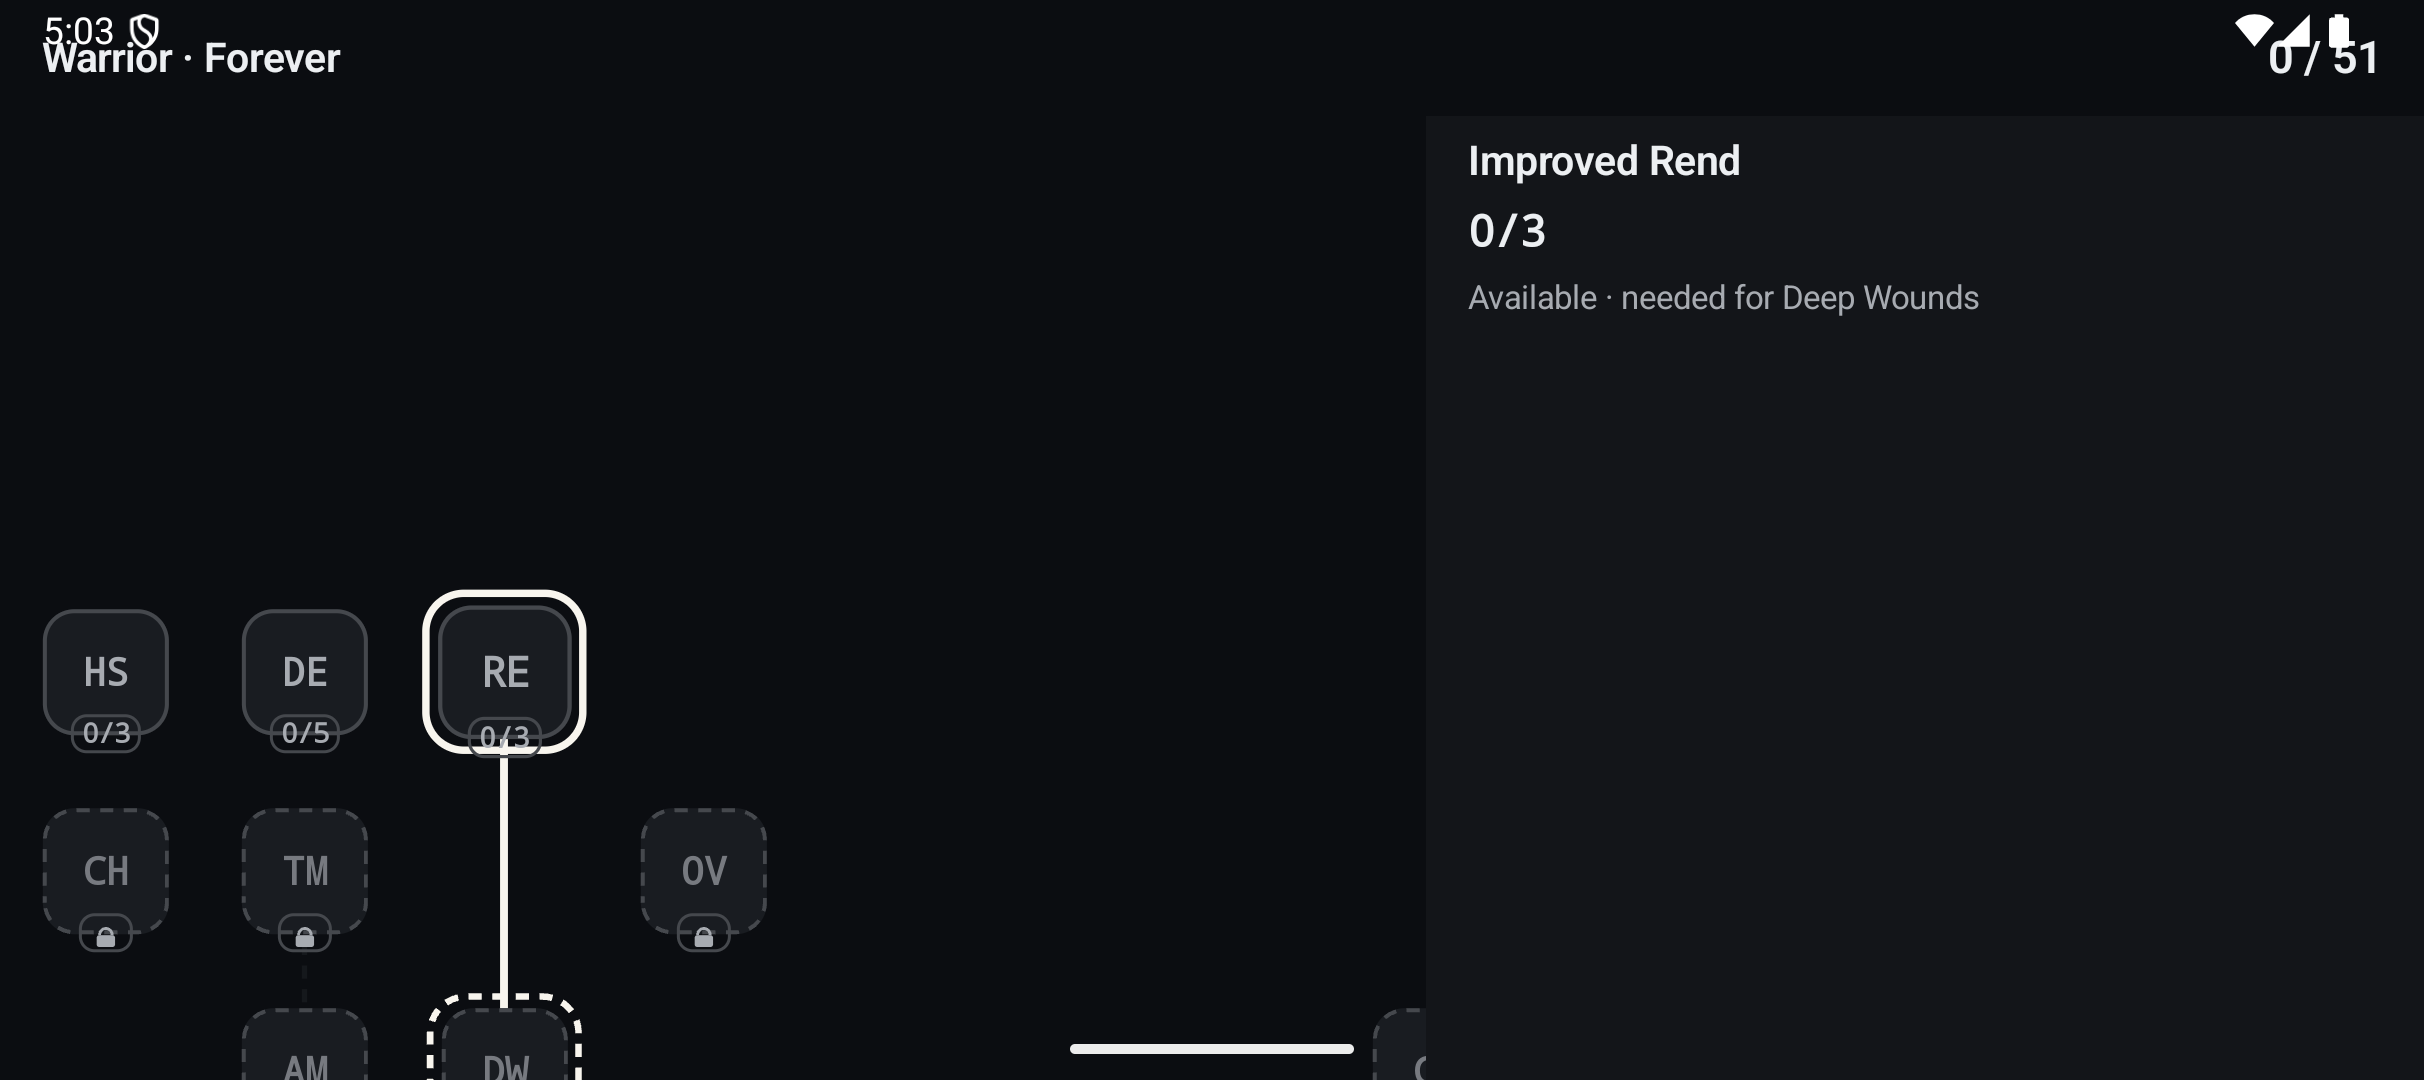
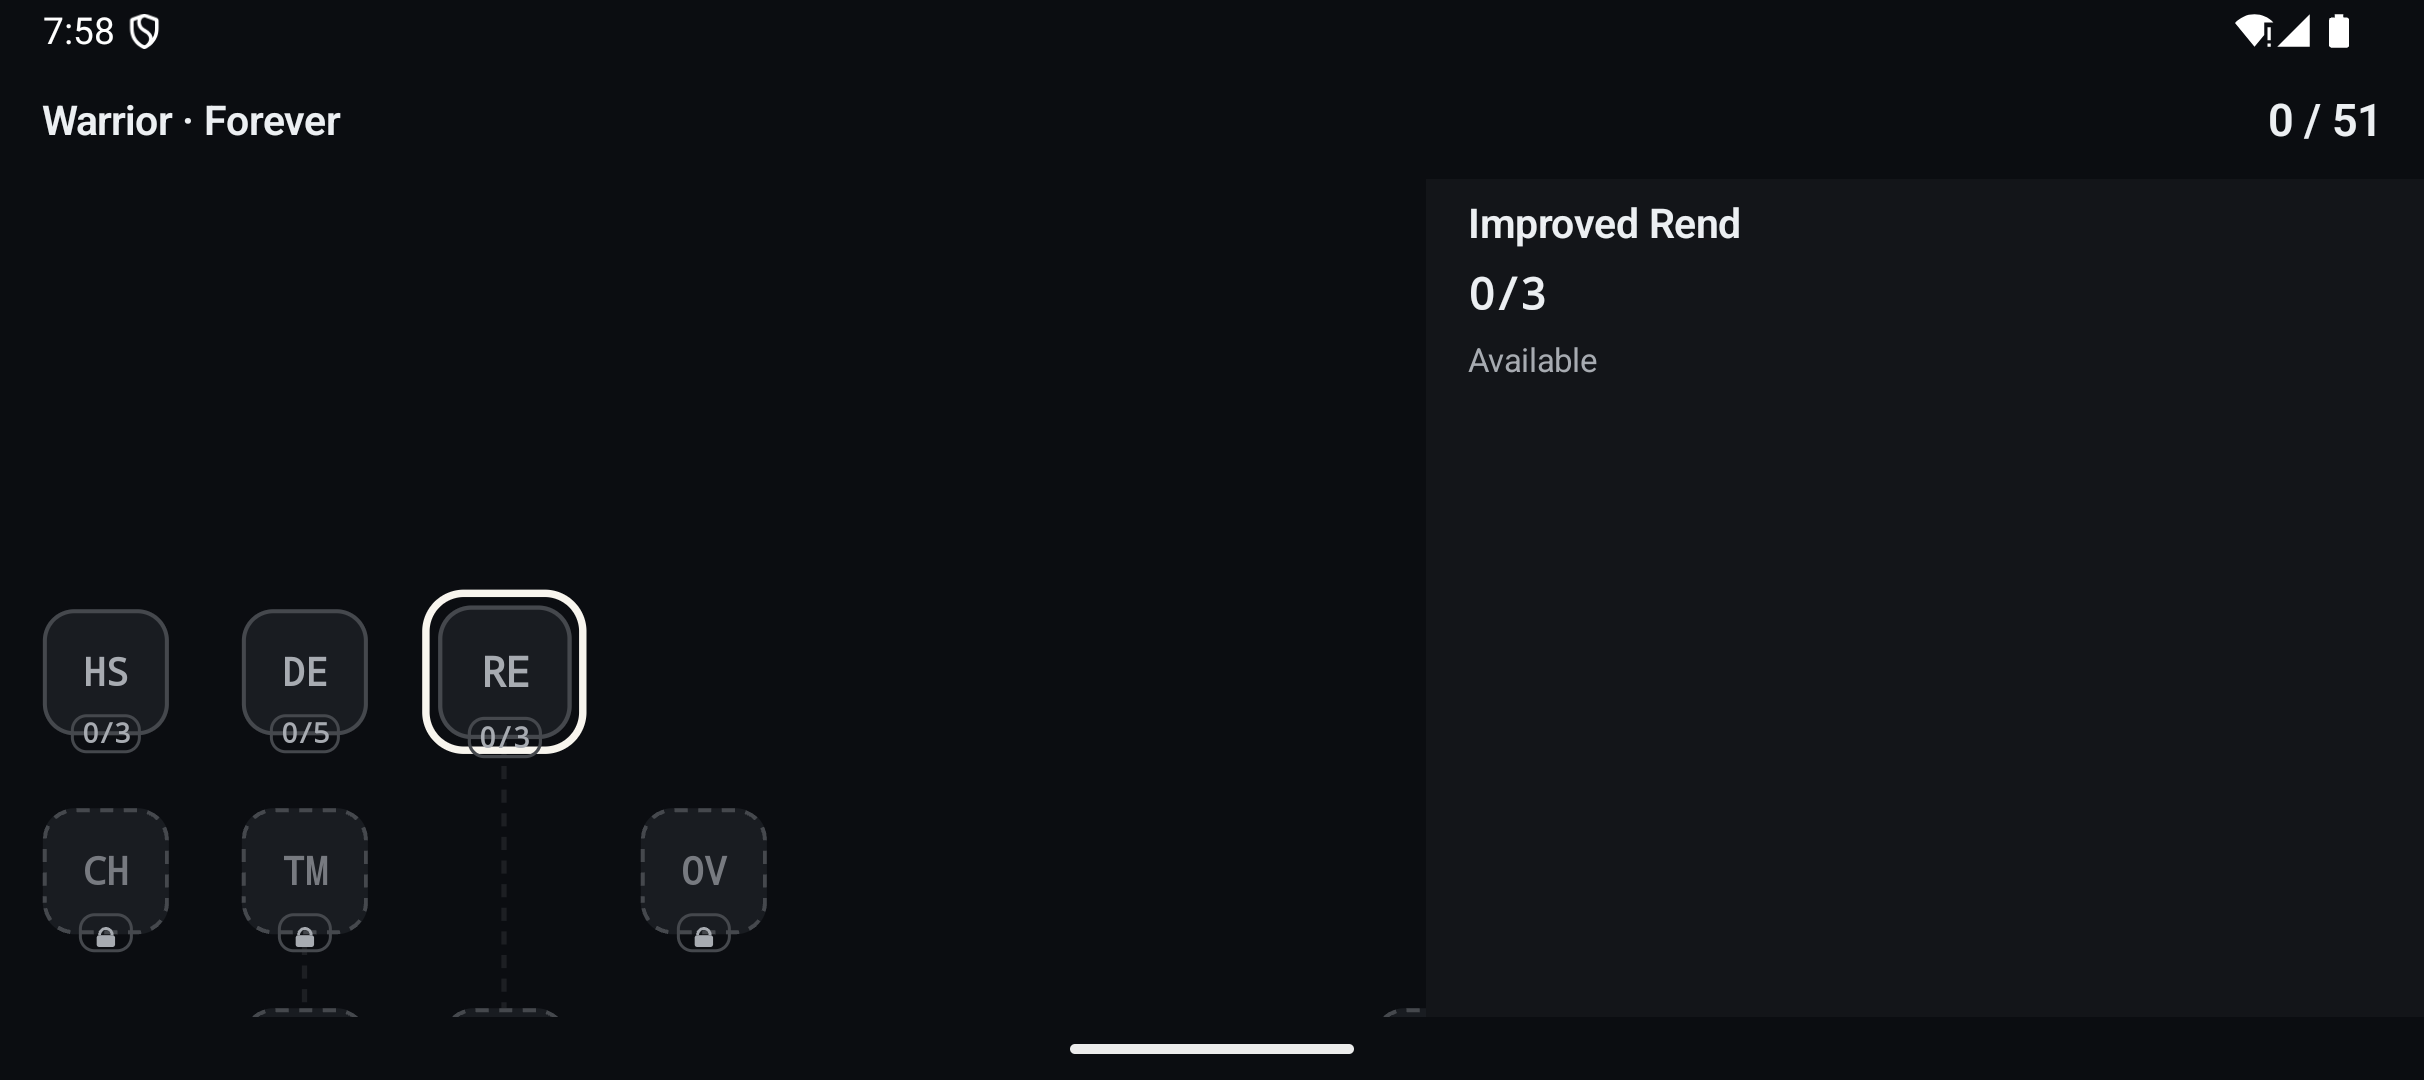
test(tree-ui): regress canvas clipping and expanded focus geometry
Pixel-level clipping test: after a far up/right pan against the real
Warrior canvas, the header and side-panel bands keep their exact paint
(no escaped node/connector pixels). Inspector tests through an
injectable viewport state: expanding over a node above the real 448 dp
sheet leaves the viewport untouched; expanding over a covered node
pans exactly the minimum reveal (scale kept, only the covered axis
moves, transform finite); collapsing never moves the canvas. Pure
panToReveal unit tests pin the minimal-delta and degenerate-region
behaviour. Screenshots refreshed where rendering changed: real
Android emulator (idle/selected/expanded/landscape/locked, tablet
empty+selected) and iOS simulator (idle/selected/locked) now show
dark background through the system-safe regions with content safely
inset; desktop references regenerated (expanded sheet at 448 dp).

diff --git a/mobile/composeApp/src/desktopTest/kotlin/io/github/alexeykravtsov95/talentforge/ui/tree/TalentTreeCanvasClippingTest.kt b/mobile/composeApp/src/desktopTest/kotlin/io/github/alexeykravtsov95/talentforge/ui/tree/TalentTreeCanvasClippingTest.kt
@@ -1,0 +1,142 @@
+package io.github.alexeykravtsov95.talentforge.ui.tree
+
+import androidx.compose.foundation.background
+import androidx.compose.foundation.layout.Box
+import androidx.compose.foundation.layout.Column
+import androidx.compose.foundation.layout.Row
+import androidx.compose.foundation.layout.fillMaxHeight
+import androidx.compose.foundation.layout.fillMaxSize
+import androidx.compose.foundation.layout.fillMaxWidth
+import androidx.compose.foundation.layout.height
+import androidx.compose.foundation.layout.size
+import androidx.compose.foundation.layout.width
+import androidx.compose.runtime.CompositionLocalProvider
+import androidx.compose.ui.Modifier
+import androidx.compose.ui.geometry.Offset
+import androidx.compose.ui.graphics.Color
+import androidx.compose.ui.graphics.toAwtImage
+import androidx.compose.ui.graphics.toArgb
+import androidx.compose.ui.platform.LocalDensity
+import androidx.compose.ui.test.captureToImage
+import androidx.compose.ui.test.junit4.createComposeRule
+import androidx.compose.ui.test.onRoot
+import androidx.compose.ui.unit.Density
+import androidx.compose.ui.unit.dp
+import io.github.alexeykravtsov95.talentforge.ui.theme.TalentForgeTheme
+import kotlin.test.BeforeTest
+import kotlin.test.Test
+import kotlin.test.assertTrue
+import kotlinx.coroutines.runBlocking
+import org.junit.Rule
+
+/**
+ * M4.2 review regression: the Talent Tree canvas is a real viewport — after a
+ * far pan, nothing it draws (connectors, the transformed node layer,
+ * selection rings, pulses, rank chips) may escape its own bounds into the
+ * header above or a neighbouring side panel.
+ *
+ * Pixel-based on purpose: clipping is a rendering property, invisible to the
+ * semantics tree. The header and panel bands are painted pure distinct
+ * colours; any escaped canvas pixel would change them.
+ */
+class TalentTreeCanvasClippingTest {
+
+    @get:Rule
+    val composeRule = createComposeRule()
+
+    private lateinit var model: TalentTreeUiModel
+    private lateinit var presentation: TalentTreePresentation
+    private lateinit var viewportState: TalentTreeViewportState
+
+    private val headerColor = Color(0xFF001133)
+    private val panelColor = Color(0xFF003311)
+    private val panelWidthDp = 100
+    private val headerHeightDp = 44
+
+    private companion object {
+        const val WIDTH = 360
+        const val HEIGHT = 760
+    }
+
+    @BeforeTest
+    fun loadRealWarriorModel() {
+        val ready = runBlocking { loadBaselineWarriorTreeState() } as TalentTreeUiState.Ready
+        model = ready.model
+        presentation = buildTalentTreePresentation(ready.engine, ready.buildState)
+        viewportState = TalentTreeViewportState(initial = null)
+    }
+
+    @Test
+    fun farPanKeepsEveryCanvasPixelInsideTheCanvasBounds() {
+        composeRule.setContent {
+            TalentForgeTheme {
+                CompositionLocalProvider(LocalDensity provides Density(1f)) {
+                    Box(Modifier.size(WIDTH.dp, HEIGHT.dp)) {
+                        Column(Modifier.fillMaxSize()) {
+                            Box(
+                                Modifier
+                                    .fillMaxWidth()
+                                    .height(headerHeightDp.dp)
+                                    .background(headerColor),
+                            )
+                            Row(Modifier.fillMaxSize()) {
+                                TalentTreeCanvas(
+                                    model = model,
+                                    presentation = presentation,
+                                    viewportState = viewportState,
+                                    layoutClass = TalentTreeLayoutClass.PORTRAIT,
+                                    selectedNodeId = null,
+                                    showGuide = null,
+                                    guideToken = 0,
+                                    onNodeSelected = {},
+                                    onSelectionCleared = {},
+                                    modifier = Modifier.weight(1f),
+                                )
+                                Box(
+                                    Modifier
+                                        .width(panelWidthDp.dp)
+                                        .fillMaxHeight()
+                                        .background(panelColor),
+                                )
+                            }
+                        }
+                    }
+                }
+            }
+        }
+        composeRule.waitForIdle()
+
+        // Pan far up and right: without clipping, upper/right tree content
+        // would render into the header band and the side-panel band.
+        val initial = viewportState.viewport
+        viewportState.applyTransform(
+            TalentTreeViewport(
+                scale = initial?.scale ?: 1f,
+                offset = Offset((initial?.offset?.x ?: 0f) + 400f, (initial?.offset?.y ?: 0f) - 600f),
+            ),
+        )
+        composeRule.waitForIdle()
+        composeRule.mainClock.advanceTimeBy(400L)
+
+        val image = composeRule.onRoot().captureToImage().toAwtImage()
+        val canvasRight = WIDTH - panelWidthDp
+
+        for (x in 0 until WIDTH) {
+            for (y in 0 until HEIGHT) {
+                val pixel = image.getRGB(x, y)
+                if (y < headerHeightDp && x < canvasRight) {
+                    assertTrue(
+                        pixel == headerColor.toArgb(),
+                        "canvas content escaped into the header at ($x,$y): 0x${pixel.toString(16)}",
+                    )
+                }
+                if (x >= canvasRight && y >= headerHeightDp) {
+                    assertTrue(
+                        pixel == panelColor.toArgb(),
+                        "canvas content escaped into the side panel at ($x,$y): 0x${pixel.toString(16)}",
+                    )
+                }
+            }
+        }
+    }
+}

diff --git a/mobile/composeApp/src/desktopTest/kotlin/io/github/alexeykravtsov95/talentforge/ui/tree/TalentInspectorUiTest.kt b/mobile/composeApp/src/desktopTest/kotlin/io/github/alexeykravtsov95/talentforge/ui/tree/TalentInspectorUiTest.kt
@@ -4,6 +4,8 @@ import androidx.compose.foundation.layout.Box
 import androidx.compose.foundation.layout.size
 import androidx.compose.runtime.CompositionLocalProvider
 import androidx.compose.ui.Modifier
+import androidx.compose.ui.geometry.Offset
+import androidx.compose.ui.geometry.Size
 import androidx.compose.ui.platform.LocalDensity
 import androidx.compose.ui.test.assertCountEquals
 import androidx.compose.ui.test.assertIsNotSelected
@@ -47,16 +49,29 @@ class TalentInspectorUiTest {
         readyState = runBlocking { loadBaselineWarriorTreeState() } as TalentTreeUiState.Ready
     }
 
-    private fun compose(state: TalentTreeUiState, width: Dp = 360.dp, height: Dp = 760.dp) {
+    private fun compose(
+        state: TalentTreeUiState,
+        width: Dp = 360.dp,
+        height: Dp = 760.dp,
+    ): TalentTreeViewportState {
+        val viewportState = TalentTreeViewportState(initial = null)
         composeRule.setContent {
             TalentForgeTheme {
                 CompositionLocalProvider(LocalDensity provides Density(1f)) {
                     Box(Modifier.size(width, height)) {
-                        TalentTreeScreen(state)
+                        TalentTreeScreen(state, viewportState = viewportState)
                     }
                 }
             }
         }
+        composeRule.waitForIdle()
+        return viewportState
+    }
+
+    /** Advances the 300 ms focus animation to its end. */
+    private fun settleFocusAnimation() {
+        composeRule.waitForIdle()
+        composeRule.mainClock.advanceTimeBy((TalentInspectorMetrics.SHOW_PAN_MS + 200).toLong())
         composeRule.waitForIdle()
     }
 
@@ -268,4 +283,88 @@ class TalentInspectorUiTest {
         composeRule.onNodeWithText("Requires Improved Rend 3/3").assertExists()
         assertNotNull(readyState.buildState)
     }
+
+    // ------------------------------------------------------------------ expanded-inspector focus geometry (review fix)
+
+    @Test
+    fun expandingWithTheNodeAboveTheRealSheetLeavesTheViewportUntouched() {
+        val viewportState = compose(readyState)
+
+        // Improved Rend sits in the visible band above the 448 dp sheet.
+        composeRule.onNodeWithContentDescription("Improved Rend").performClick()
+        settleFocusAnimation()
+        val beforeExpand = assertNotNull(viewportState.viewport)
+
+        composeRule.onNodeWithText("Improved Rend").performClick() // name area expands
+        settleFocusAnimation()
+
+        assertEquals(
+            beforeExpand,
+            viewportState.viewport,
+            "B3: the canvas stays still when the node is fully visible above the real sheet",
+        )
+    }
+
+    @Test
+    fun expandingOverACoveredNodePansOnlyTheMinimumAmountNeeded() {
+        val viewportState = compose(readyState)
+
+        // Improved Hamstring lies inside the region the real 448 dp sheet
+        // covers at the initial viewport.
+        composeRule.onNodeWithContentDescription("Improved Hamstring").performClick()
+        settleFocusAnimation()
+        val beforeExpand = assertNotNull(viewportState.viewport)
+
+        composeRule.onNodeWithText("Improved Hamstring").performClick() // expand
+        settleFocusAnimation()
+
+        val after = assertNotNull(viewportState.viewport)
+        assertEquals(beforeExpand.scale, after.scale, "the scale is never touched")
+        assertTrue(after.offset.x.isFinite() && after.offset.y.isFinite())
+
+        // B3 08 minimal pan: only the covered vertical axis moves, by exactly
+        // the amount that brings the node into the visible (uncovered) band.
+        val canvas = viewportState.canvasSize
+        val node = assertNotNull(readyState.model.nodes.firstOrNull { it.name == "Improved Hamstring" })
+        val sheetHeight = minOf(
+            TalentInspectorMetrics.EXPANDED_SHEET_PREFERRED_DP.value,
+            canvas.height - TalentInspectorMetrics.SHEET_BOTTOM_CLEARANCE_DP.value,
+        )
+        val expected = beforeExpand.panToReveal(
+            Offset(node.centerX, node.centerY),
+            Size(canvas.width, canvas.height - sheetHeight),
+        )
+        assertEquals(expected, after, "the pan must be the minimum reveal, not a centring")
+        assertTrue(beforeExpand.offset.x == after.offset.x, "the horizontal axis does not move")
+
+        // and the node is now fully visible above the sheet
+        val screen = after.worldToScreen(Offset(node.centerX, node.centerY))
+        val clearance = TalentInspectorMetrics.FOCUS_CLEARANCE_DP
+        assertTrue(screen.y >= clearance - 0.5f && screen.y <= canvas.height - sheetHeight - clearance + 0.5f)
+    }
+
+    @Test
+    fun collapsingTheInspectorNeverMovesTheViewport() {
+        val viewportState = compose(readyState)
+
+        composeRule.onNodeWithContentDescription("Improved Hamstring").performClick()
+        composeRule.onNodeWithText("Improved Hamstring").performClick() // expand
+        settleFocusAnimation()
+
+        composeRule.onNodeWithText("×").performClick() // deselect
+        composeRule.onNodeWithContentDescription("Deep Wounds").performClick()
+        composeRule.onNodeWithText("Deep Wounds").performClick() // expand again
+        settleFocusAnimation()
+        val beforeCollapse = assertNotNull(viewportState.viewport)
+
+        composeRule.onNodeWithContentDescription("Deep Wounds").performClick() // collapse via chevron/name
+        settleFocusAnimation()
+
+        assertEquals(
+            beforeCollapse,
+            viewportState.viewport,
+            "B3 08: collapsing never moves the canvas",
+        )
+    }
 }
+

diff --git a/mobile/composeApp/src/desktopTest/kotlin/io/github/alexeykravtsov95/talentforge/ui/tree/TalentTreeShowFocusTest.kt b/mobile/composeApp/src/desktopTest/kotlin/io/github/alexeykravtsov95/talentforge/ui/tree/TalentTreeShowFocusTest.kt
@@ -122,6 +122,54 @@ class TalentTreeShowFocusTest {
     }
 
     @Test
+    fun revealMovesOnlyTheOutOfBoundsAxisByTheMinimumAmount() {
+        val viewport = TalentTreeViewport(1f, Offset(0f, 0f))
+        val clearance = TalentInspectorMetrics.FOCUS_CLEARANCE_DP
+
+        // target below the visible band: only y moves, by exactly the deficit
+        val world = Offset(200f, 600f)
+        val revealed = viewport.panToReveal(world, visible)
+        assertEquals(viewport.scale, revealed.scale)
+        assertEquals(viewport.offset.x, revealed.offset.x, 1e-4f, "x axis is in bounds and must not move")
+        assertEquals(
+            visible.height - clearance,
+            revealed.worldToScreen(world).y,
+            1e-3f,
+            "y lands exactly on the bottom bound of the visible band",
+        )
+        assertEquals(
+            viewport.offset.y - (600f - (visible.height - clearance)),
+            revealed.offset.y,
+            1e-3f,
+            "the pan is the minimum deficit, not a centring",
+        )
+
+        // target inside: no move at all
+        assertSame(viewport, viewport.panToReveal(Offset(200f, 200f), visible))
+
+        // both axes out: both move minimally (x to the left bound, y to the right/bottom bound)
+        val corner = viewport.panToReveal(Offset(-500f, 900f), visible)
+        assertEquals(clearance, corner.worldToScreen(Offset(-500f, 900f)).x, 1e-3f)
+        assertEquals(
+            visible.height - clearance,
+            corner.worldToScreen(Offset(-500f, 900f)).y,
+            1e-3f,
+        )
+    }
+
+    @Test
+    fun revealClampsDegenerateRegionsAndStaysFinite() {
+        val viewport = TalentTreeViewport(1.5f, Offset(30f, 30f))
+
+        // region smaller than twice the clearance: still finite, in-bounds clamp
+        val tiny = viewport.panToReveal(Offset(10f, 10f), Size(20f, 20f))
+        assertTrue(tiny.offset.x.isFinite() && tiny.offset.y.isFinite())
+
+        assertSame(viewport, viewport.panToReveal(Offset(Float.NaN, 1f), visible))
+        assertSame(viewport, viewport.panToReveal(Offset(1f, 1f), Size.Zero))
+    }
+
+    @Test
     fun focusRequestStateHolderRejectsNonFiniteAndEmptyTargets() {
         val state = TalentTreeViewportState(initial = null)
         state.requestFocus(Offset(Float.NaN, 1f), visible)
@@ -137,5 +185,9 @@ class TalentTreeShowFocusTest {
         state.requestFocus(Offset(20f, 20f), visible)
         assertTrue(assertNotNull(state.focusRequest).id > request.id, "each request gets a fresh id")
         assertTrue(abs(state.focusRequest!!.world.x - 20f) < 1e-4f)
+        assertEquals(TalentTreeFocusMode.CENTRE, state.focusRequest!!.mode, "Show keeps the centring mode")
+
+        state.requestFocus(Offset(20f, 20f), visible, mode = TalentTreeFocusMode.REVEAL)
+        assertEquals(TalentTreeFocusMode.REVEAL, state.focusRequest!!.mode)
     }
 }

diff --git a/docs/mobile-architecture.md b/docs/mobile-architecture.md
@@ -101,8 +101,12 @@ Compose Multiplatform application/UI host. Depends on `shared`. Contains:
     tree" without "in Arms");
   - `TalentInspector` — the **M4.2 adaptive inspector**, one content model in
     three presentations: portrait 64 dp compact bar (14 dp inset, grows at
-    large text) expanding into the 448 dp-preferred sheet capped at available
-    height minus 96 dp with internal scrolling; landscape 300 dp side panel
+    large text) expanding into the B3 448 dp sheet — it *occupies*
+    min(448 dp, available height − 96 dp), scrolls internally at large text
+    sizes and pins its actions to the bottom; because that is the sheet's
+    actual geometry, the expand focus covers exactly this height (never a
+    mismatched estimate) and pans the minimum amount needed (B3 08);
+    landscape 300 dp side panel
     laid out **beside** the canvas (never painted under it — the tree pans
     only if the panel would cover the node); tablet (840 dp+) persistent
     380 dp inspector with a minimal empty prompt (the spec freezes the
@@ -144,7 +148,14 @@ smoke host was removed with its screen; the repository/resource pipeline it
 proved remains covered by the desktop tests.
 
 M4.2 extends the same screen with the **adaptive Talent Inspector and the
-read-only allocation-state presentation** described above. It remains strictly
+read-only allocation-state presentation** described above. System UI follows
+one cross-platform rule: the hosts draw edge to edge (Android
+`enableEdgeToEdge` with transparent light-icon bars; SwiftUI
+`ignoresSafeArea`), the TalentForge background paints to the physical window
+edges, and the screen insets its *content* exactly once via
+`WindowInsets.safeDrawing` — no hardcoded bar heights, no double padding on
+iOS. The canvas is a real viewport (`clipToBounds`): nothing it draws can
+escape into the header, the inspector or a neighbouring panel. It remains strictly
 **read-only**: the screen holds one immutable `engine.emptyState()` build, the
 engine is only queried (`canSpend`/`validate`/`spentPoints`/
 `remainingPoints`), `Show` is pure navigation, and no spend/refund/undo
